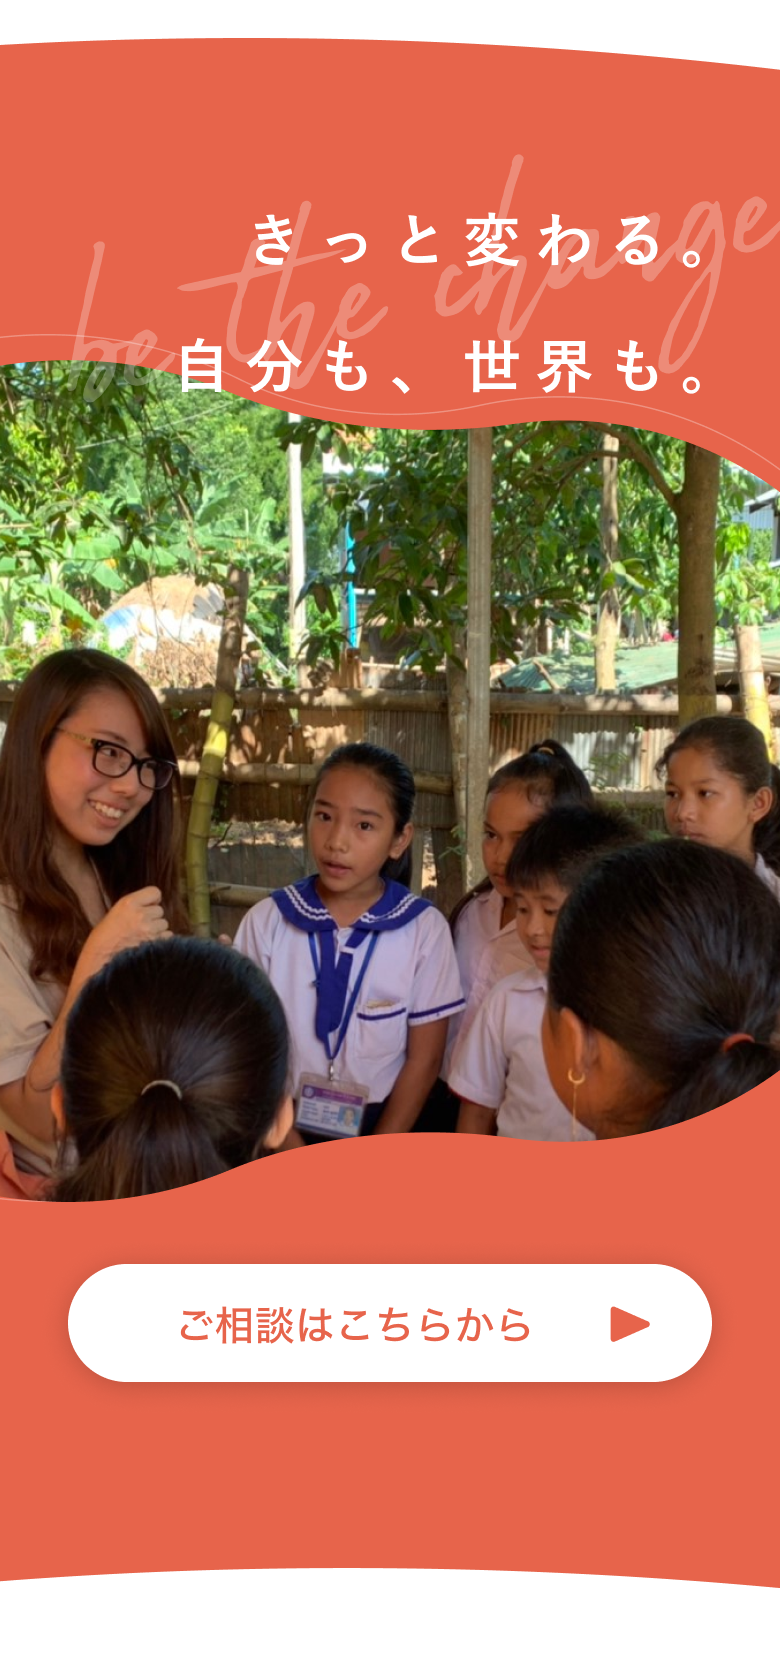
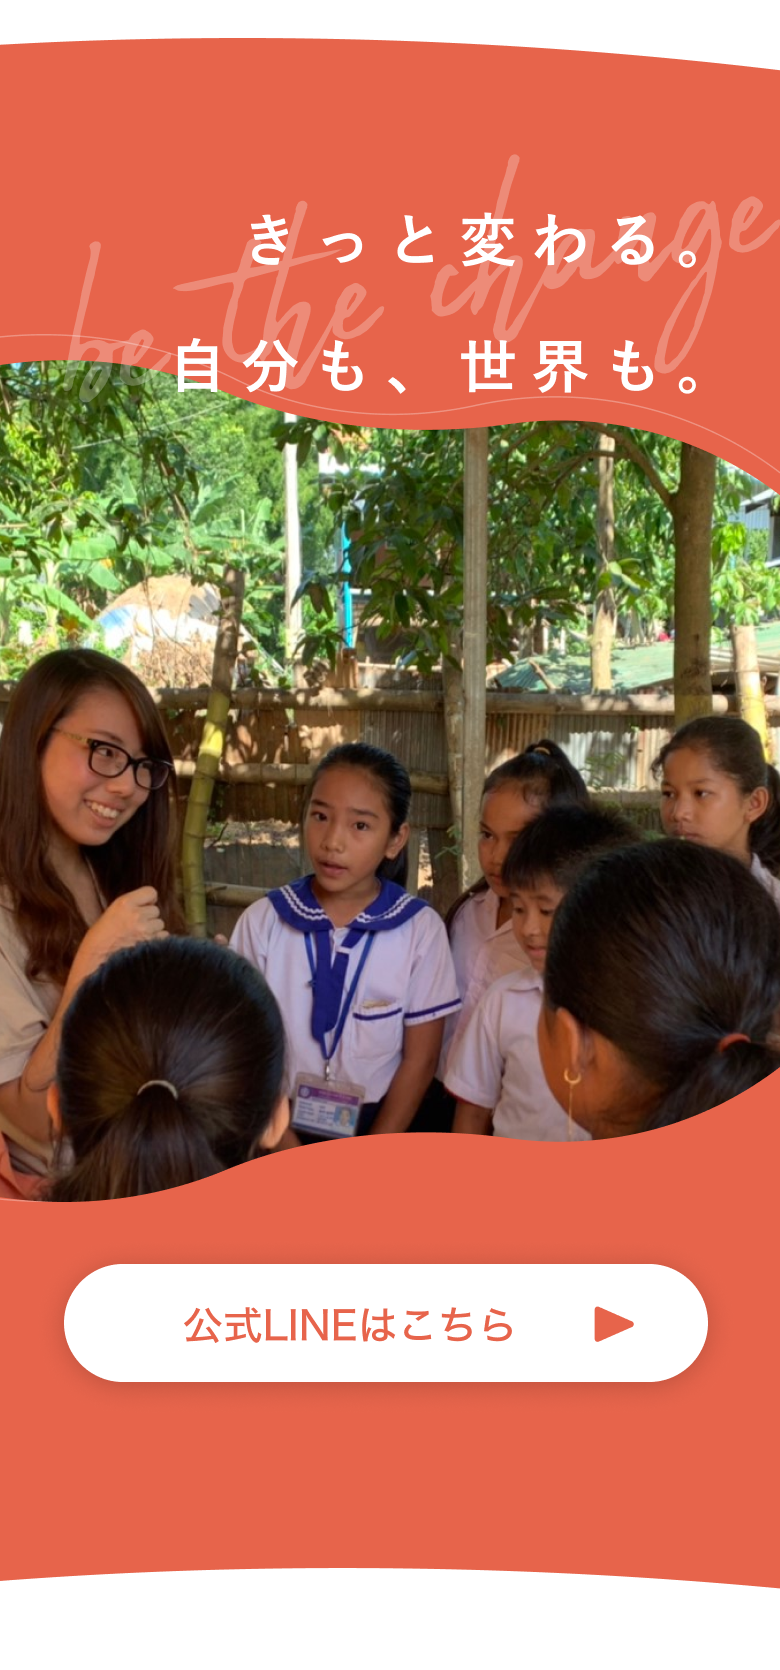
update: セクションCVのボタンUIテキストを「ご相談はこちら」→「公式LINEはこちら」に変更

diff --git a/static/lp/outgoing/index.html b/static/lp/outgoing/index.html
@@ -405,7 +405,7 @@
             <!--ご相談はこちらから-->
             <div id="cv" class="cv">
                 <img src="assets/img/CV.png" alt="ご相談はこちらから" class="std-img">
-                <img src="assets/img/sp_cv.png" alt="ご相談はこちらから" class="sp-img">
+                <img src="assets/img/sp_CV.png" alt="ご相談はこちらから" class="sp-img">
                 <a href="#" class="overlay-link"></a><!--公式LINE追加-->
             </div>            
         </main>
